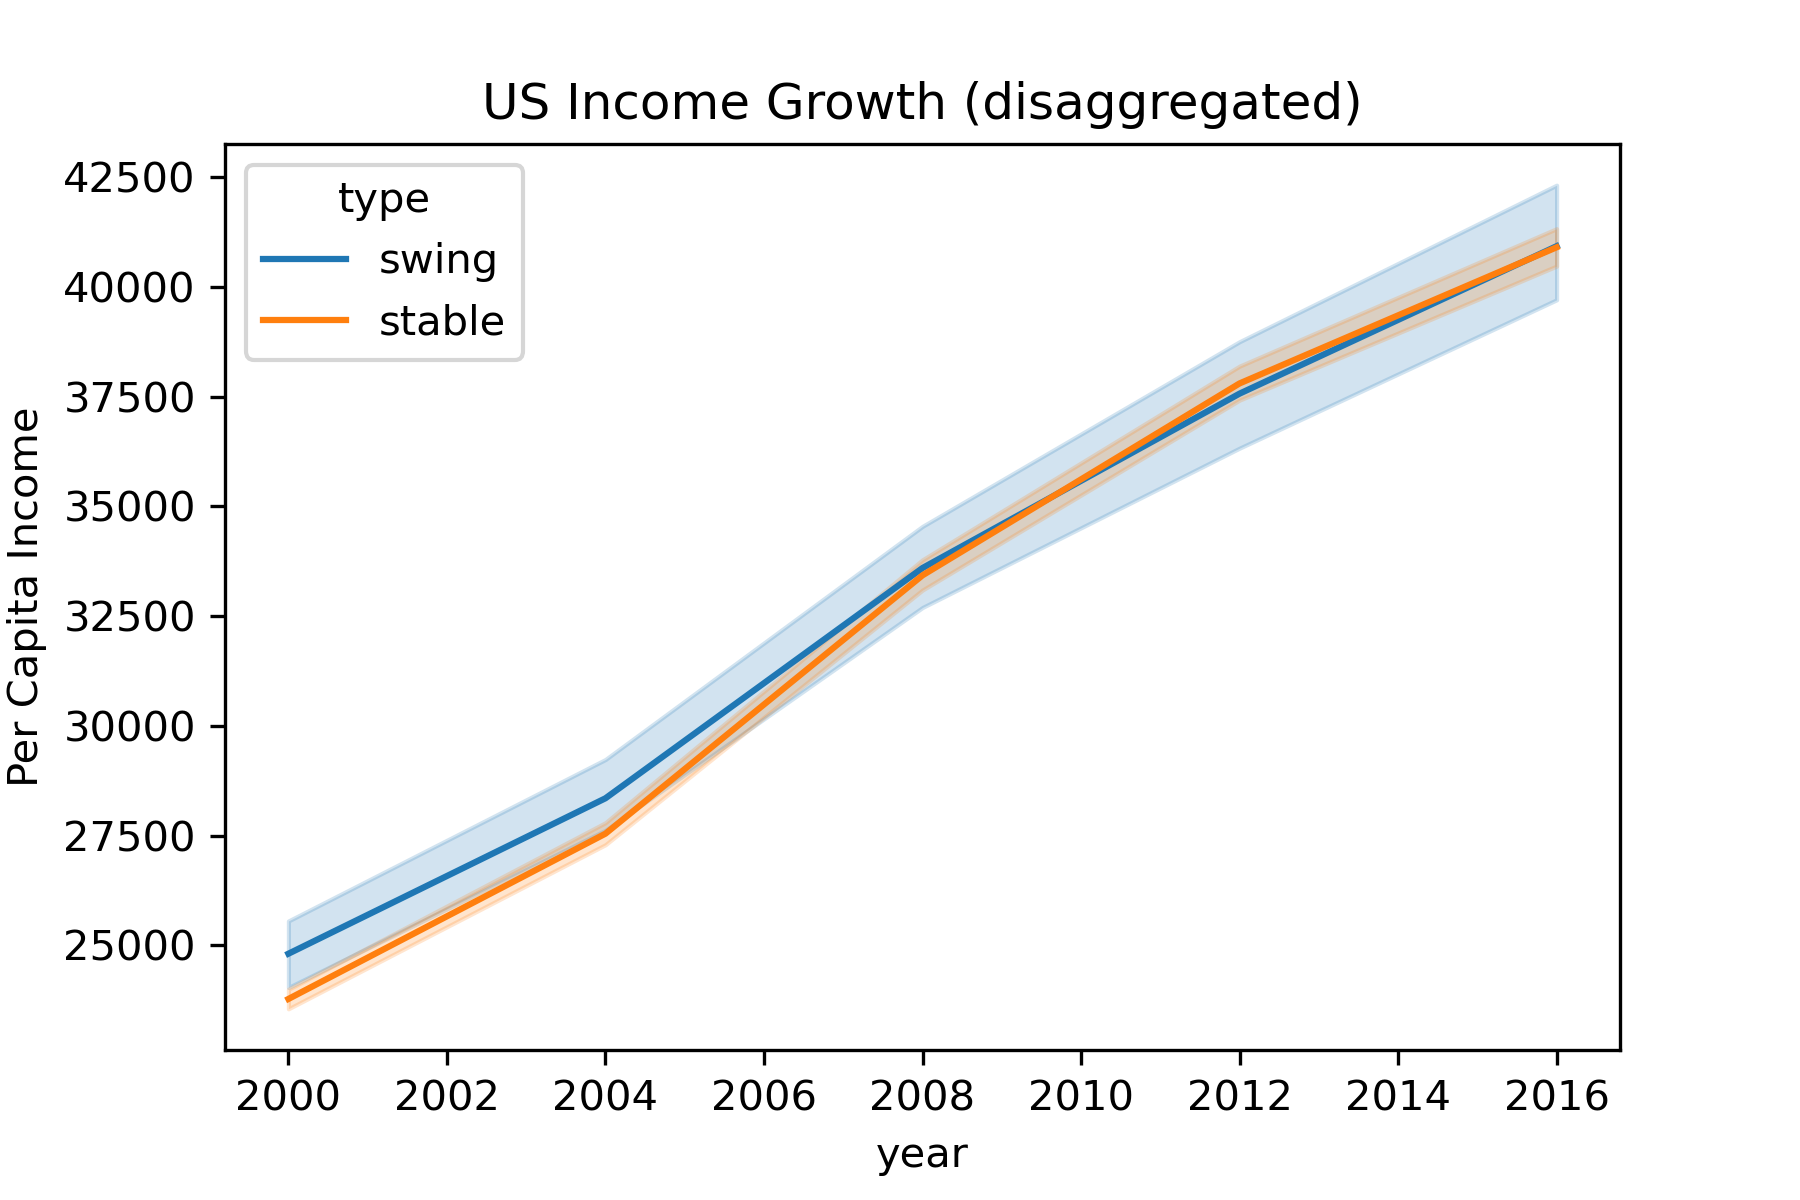
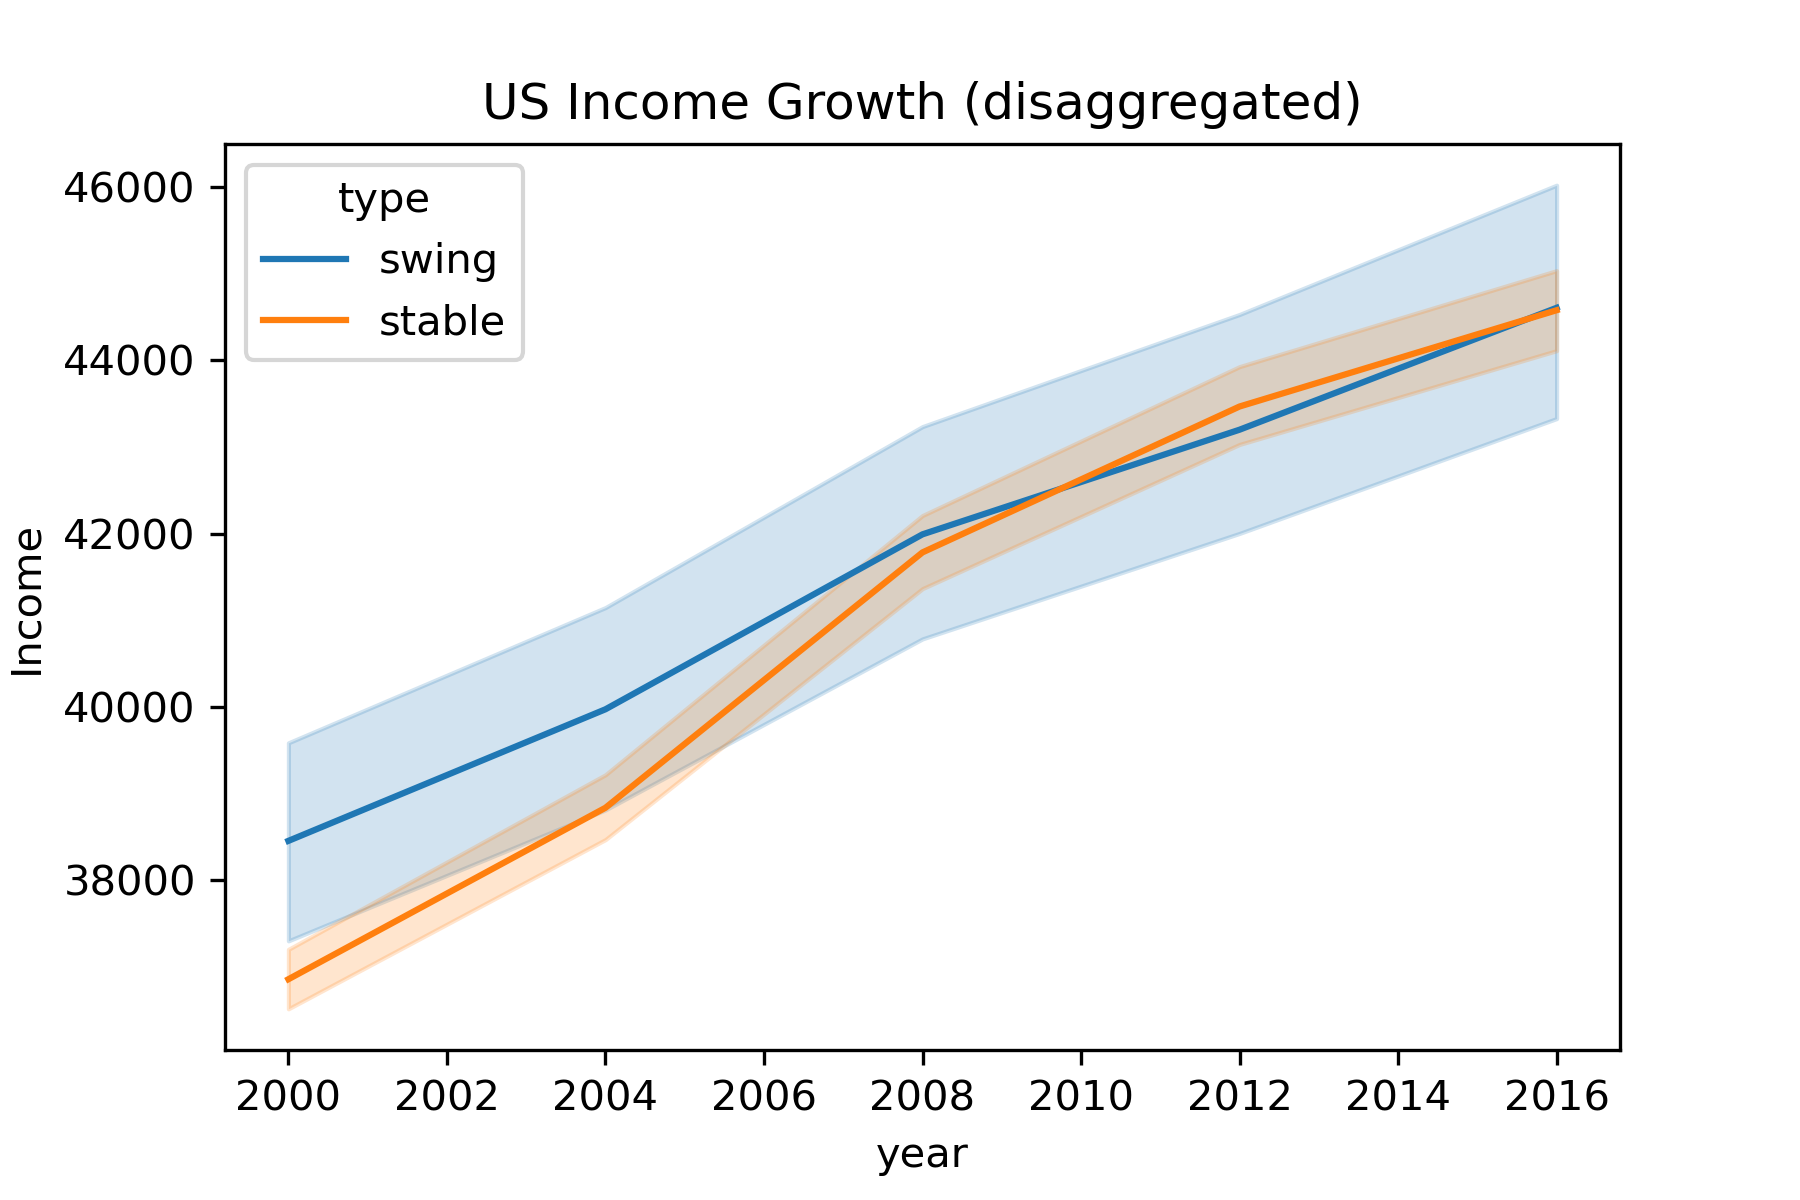
Touched_up_final
Touched things up a little

diff --git a/3_plotting_voting_by_income.py b/3_plotting_voting_by_income.py
@@ -5,7 +5,7 @@ import seaborn as sns
 #here we want to take the bundled together data from the master_df compiled in
 #the last script, adjust income for inflation for intuitive graphs.  
 
-final_dtype = {"Per_Capita_Income" : int, 
+final_dtype = {"inflation adjusted income" : float, 
                "year" : int, 
                "swing_counties" : str} #(do I want to keep year as int?)
 
@@ -34,11 +34,11 @@ stable_counties.to_csv("stable_counties.csv")
 #
 party_colors = {"democrat" : "blue",
                "republican" : "red"}
-#elections = master_df.query("year == '2000' or year == '2004' or year == '2008' or year == '2012' or year == '2016'")
+
 fig, ax1 = plt.subplots(dpi=300)
-sns.violinplot(data=master_df,x="year",y="Per_Capita_Income",hue="party",split=True, palette=party_colors)
+sns.violinplot(data=master_df,x="year",y="inflation adjusted income",hue="party",split=True, palette=party_colors)
 ax1.set_title("Party Preference by Income (Entire Country)")
-ax1.set_ylabel("Per Capita Income")
+ax1.set_ylabel("inflation adjusted income")
 fig.tight_layout()
 fig.savefig('US_voting_by_income_violin_chart.png')
 
@@ -46,18 +46,18 @@ fig.savefig('US_voting_by_income_violin_chart.png')
 #%% Violin plots just for the swing counties
 
 fig, ax1 = plt.subplots(dpi=300)
-sns.violinplot(data=swing_counties,x="year",y="Per_Capita_Income",hue="party",split=True, palette=party_colors)
+sns.violinplot(data=swing_counties,x="year",y="inflation adjusted income",hue="party",split=True, palette=party_colors)
 ax1.set_title("Party Preference by Income (Swing Counties)")
-ax1.set_ylabel("Per Capita Income")
+ax1.set_ylabel("inflation adjusted income")
 fig.tight_layout()
 fig.savefig('swing_county_voting_by_income_violin_chart.png')
 
 #%% Violin plots just for the stable counties
 
 fig, ax1 = plt.subplots(dpi=300)
-sns.violinplot(data=stable_counties,x="year",y="Per_Capita_Income",hue="party",split=True, palette=party_colors)
+sns.violinplot(data=stable_counties,x="year",y="inflation adjusted income",hue="party",split=True, palette=party_colors)
 ax1.set_title("Party Preference by Income (Stable Counties)")
-ax1.set_ylabel("Per Capita Income")
+ax1.set_ylabel("inflation adjusted income")
 fig.tight_layout()
 fig.savefig('stable_county_voting_by_income_violin_chart.png')
 
@@ -68,8 +68,8 @@ stable_and_swing = pd.concat(both_df).reset_index(drop=True)
 stable_and_swing.unstack()
 
 fig, ax1 = plt.subplots(dpi=300)
-sns.lineplot(data=stable_and_swing,x="year",y="Per_Capita_Income", hue = "type")
+sns.lineplot(data=stable_and_swing,x="year",y="inflation adjusted income", hue = "type")
 ax1.set_title("US Income Growth (disaggregated)")
-ax1.set_ylabel("Per Capita Income")
+ax1.set_ylabel("Income")
 fig.savefig('US_Income_Growth_(disaggregated).png')
 

diff --git a/2_mapping_voting_data.py b/2_mapping_voting_data.py
@@ -12,12 +12,12 @@ from itertools import tee, islice, chain #, izip
 #clean up the voting data into something useful which can then be joined
 #with a map of counties and the cleaned up BEA data from script 1
 
-fix_dtype = {"Median Income" : int, 
-             "FIPS": str, 
+fix_dtype = {"FIPS": str, 
              "GEOID" : str, 
              "year" : str, 
              "party" : str, 
-             "state_po" : str}
+             "state_po" : str,
+             "income" : int}
 
 
 election_results = pd.read_csv("countypres_2000-2016_(3).csv", dtype = fix_dtype)
@@ -63,13 +63,24 @@ master_df.set_index("GEOID", inplace = True)
 
 counties = geopandas.read_file("tl_2016_us_county.shp", dtype = fix_dtype)
 
-#break the master dataframe into five pieces for editing and mapping
+#break the master dataframe into five pieces for editing and mapping, adjust
+#the income for inflation to match 2021 dollars
 
 year2000_election = master_df.query("year == '2000'").copy()
+year2000_election["inflation adjusted income"] = year2000_election["income"] * 1.55
+
+
 year2004_election = master_df.query("year == '2004'").copy()
+year2004_election["inflation adjusted income"] = year2004_election["income"] * 1.41
+
 year2008_election = master_df.query("year == '2008'").copy()
+year2008_election["inflation adjusted income"] = year2008_election["income"] * 1.25
+
 year2012_election = master_df.query("year == '2012'").copy()
+year2012_election["inflation adjusted income"] = year2012_election["income"] * 1.15
+
 year2016_election = master_df.query("year == '2016'").copy()
+year2016_election["inflation adjusted income"] = year2016_election["income"] * 1.09
 #year2016_election.set_index("GEOID", inplace = True)
 
 #%%

diff --git a/1_cleaning_bea_income_data.py b/1_cleaning_bea_income_data.py
@@ -49,11 +49,11 @@ for i, col in enumerate(bea_data_trim.columns):
 #This dictionary will be used to turn the five seperate columns into a column
 #with one common name which will later be stacked on top of each other
 
-changing_columns = {"2000" : "Per_Capita_Income",
-                    "2004" : "Per_Capita_Income",
-                    "2008" : "Per_Capita_Income",
-                    "2012" : "Per_Capita_Income",
-                    "2016" : "Per_Capita_Income"
+changing_columns = {"2000" : "income",
+                    "2004" : "income",
+                    "2008" : "income",
+                    "2012" : "income",
+                    "2016" : "income"
                     }
 
 #%%
@@ -66,6 +66,9 @@ year2000_income = bea_data_trim[["GEOID",
                               "2000"]].copy()
 year2000_income = year2000_income.rename(changing_columns, axis = "columns")
 year2000_income["year"] = "2000"
+#year2000_income = year_2000_income_df.query("")
+#year2000_income["2000"] = year2000_income["2000"].astype(float)
+#year2000_income["income"] = year2000_income["2000"] * 1.55
 
 
 #%%
@@ -128,7 +131,7 @@ stacked_data = pd.concat(five_elections).reset_index(drop=True)
 for i, col in enumerate(stacked_data.columns):
     stacked_data.iloc[:, i] = stacked_data.iloc[:, i].str.replace(' ', '')
 
-cleaned_data = stacked_data.query("Per_Capita_Income != '(NA)'")
+cleaned_data = stacked_data.query("income != '(NA)'")
 tidied_up_data = cleaned_data.query("GeoName != 'United States'")
 tidied_up_data.to_csv("per_capita_income_2000-2016.csv")
 

diff --git a/Results.md b/Results.md
@@ -1,17 +1,14 @@
-The purpose of this script was to analyze whether there was any relationship between income and whether or not counties switched the party they voted for over time. My initial hypothesis was that wealthy voters were trending towards the democrat party, and I wanted to see if this was a significant enough trend that it could be seen on the county level.  This analysis was supplemented with six visuals, including four maps that show which counties switched party each election, one map showing swing counties, and one map showing the frequency of counties voting democrat or republican.
+The purpose of this script was to analyze whether there was any relationship between income and whether or not counties switched the party they voted for over time. My initial hypothesis was that wealthy voters were trending towards the democrat party, and I wanted to see if this was a significant enough trend that it could be seen on the county level.  I also developed a secondary theory that maybe counties which were wealthier were happier with the status quo, while counties with less income growth, or more unstable income growth, were more likely to want to switch sides.  This analysis was supplemented with six visuals, including four maps that show which counties switched party each election, one map showing swing counties, and one map showing the frequency of counties voting democrat or republican.
 
-The actual analysis was conducted in two main ways.  The first way was by tracking the relationship between income and voting over five separate elections.  The results were visualized with a series of violin plots with showed how income corresponded to voting.  The results for the entire nation showed that both parties received the bulk of their votes from lower to lower middle income people; democrats have some slightly higher income voters and also some slightly lower income voters while republican votes are clustered in between.  This distribution was remarkably constant across all five elections with no sign at all of actually wealthier voters trending democrat or poorer voters trending Republican.
+The actual analysis was conducted in two main ways.  The first way was by tracking the relationship between income and voting over five separate elections.  The results were visualized with a series of violin plots with showed how income corresponded to voting.  The results for the entire nation showed that both parties received the bulk of their votes from lower to lower middle income people; democrats have some slightly higher income voters and also some slightly lower income voters while republican votes are clustered in between.  This distribution was remarkably constant across all five elections with no sign at all of actually wealthier voters trending democrat or poorer voters trending Republican.  There does not appear to be evidence of wealthy counties trending towards democrats when compared across all five elections.
 
 The second level of the analysis was to divide the US into two categories: "swing counties," which voted for one party three times and the other party two times, and "stable counties," which voted for the same party at least four of five times.  The goal here was to see if counties that switched who they voted for had any different income characteristics than the stable counties.
 
-The same violin plots were re-ran on swing counties and stable counties to see if there was any difference.  The swing counties did seem to show a slight shift of income rising for swing counties which voted democrat across the five elections and income lowering for swing counties which voted republican.  However, the gap was not very large and the bulk of counties that voted for either party still hovered around lower to lower middle class.  There was not significant evidence that wealthy voters were driving a significant trend of flipping counties towards democrats.
+ The series of stable counties showed up as having a significantly higher maximum county income (~250,000) than the swing counties (~140,000), which led to me developing the secondary theory that swing counties might have lower or less stable incomes on average. To test this theory I constructed a line plot that displayed income growth, adjusted for inflation, for both swing counties and stable counties.  Swing counties saw slightly better growth from 2000 to 2008.  However, from 2008 onward the trendlines for income growth in both swing counties and stable counties were touching, suggesting there was no difference in average incomes..  The fact that the top per capita income was significantly higher for stable counties suggests there were also significantly more poor counties in the stable counties series, enough that on a broad enough scale the wealthier and poorer counties averaged out to have the same income as the swing counties.
 
-The top per capita income for counties in the swing county series was only $120,000, significantly lower than the top per capita income for the entire country ($200,000).  Meanwhile the distribution of voting for the stable counties was significantly more similar to the violin plots for the entire country and shared the same top per capita income.
+I would caution against over-interpreting this finding.  The fact that incomes are essentially the same in swing and stable counties does not mean that economic issues do not matter to these voters, or that they do not have legitimately distinct opinions on economic issues that simply cannot be gleaned from this data.  It just means that there is no evidence that the underlying economic conditions are any different in swing counties when compared to stable counties, or the country as a whole.
 
-Because the stable county series had such a higher maximum income and otherwise resembled the national distribution, I developed a secondary theory that maybe counties which were wealthier were happier with the status quo, while counties with less income growth, or more unstable income growth, were more likely to want to switch sides.  To analyze this I constructed a line plot that displayed income growth for both swing counties and stable counties.  The lines of income growth were almost perfectly touching each other all the way from 2000 to 2016, suggesting there was no difference in average income or income growth between swing counties and stable counties.  The fact that the top per capita income was significantly higher for stable counties suggests there were also significantly more poor counties in the stable counties series, enough that on a broad enough scale the wealthier and poorer counties averaged out to have the same income as the swing counties.
+While income might be the same on average between swing counties and stable counties, this did not necessarily mean that the same was true of which swing counties voted for each party.  To try to take a closer I then re-ran the same violin plots on swing counties and stable counties to see if there was any difference in income for party preference.  The swing counties did indeed show that over the last five elections that higher income swing counties trended towards democrat while lower income swing counties trended towards republican.  This trend was not just noticeable, it was also essentially a reversal of the starting point in 2000, where slightly higher earning swing counties leaned republican and lower earning swing counties leaned democrat.  However, the bulk of swing counties that voted for either party still hovered around lower to upper middle classes.  There was not significant evidence that seriously wealthy voters were driving a significant trend of flipping counties towards democrats.  
 
-In conclusion, there was modest evidence that slightly wealthier swing counties are trending democrat and slightly poorer swing counties are trending republican.  However this is only in relative terms, the bulk of all swing counties are lower to lower middle class and there is no evidence that wealthy counties are driving a shift towards republicans.  There is furthermore no evidence that average incomes or income growth is any different in swing counties when compared to stable counties.
-
-I would caution against over-interpreting these findings.  The fact that incomes are the same in swing and stable counties does not mean that economic issues do not matter to these voters, or that they do not have legitimately distinct opinions on economic issues that cannot be gleaned from this data.  It just means that there is no evidence that the underlying economic conditions are any different in swing counties when compared to stable counties, or the country as a whole.
-
-Furthermore, counties might be too large of a geographic area to conduct this analysis as best as it could possibly be done.  Counties can take in both rich suburbs together with struggling cities and produce a totally unremarkable, average income.  More precise data, on the level of census tracts or voting precincts, might show a sharper, more accurate picture of the extent to which income drives voting.  My next step is to try to do just that and reproduce this analysis on a more granular dataset.
+In conclusion, there is no evidence that truly wealthy counties are causing a shift towards either side.  There is furthermore no evidence that underlying economic conditions are significantly different between swing counties and stable counties.  However,
+However, there is solid evidence that among swing counties themselves, income has shown a relationship between party preference.  Upper middle income swing counties have trended towards democrat and lower middle income and lower income swing counties have trended republican, in clear reversal of the starting trend in 2000.   

diff --git a/ReadMe.md b/ReadMe.md
@@ -62,7 +62,7 @@ This ended up not being used in this analysis but is a useful piece of data for 
 
 11. Read in the shapefile
 
-12.  Break down the newly created master dataframe into five pieces, then put them in a list.
+12.  Break down the newly created master dataframe into five pieces, then put them in a list, create a new column for each that adjusts income for inflation to 2021 dollars.
 
 13.  Create a new series that will be used to track voting consistency
 
